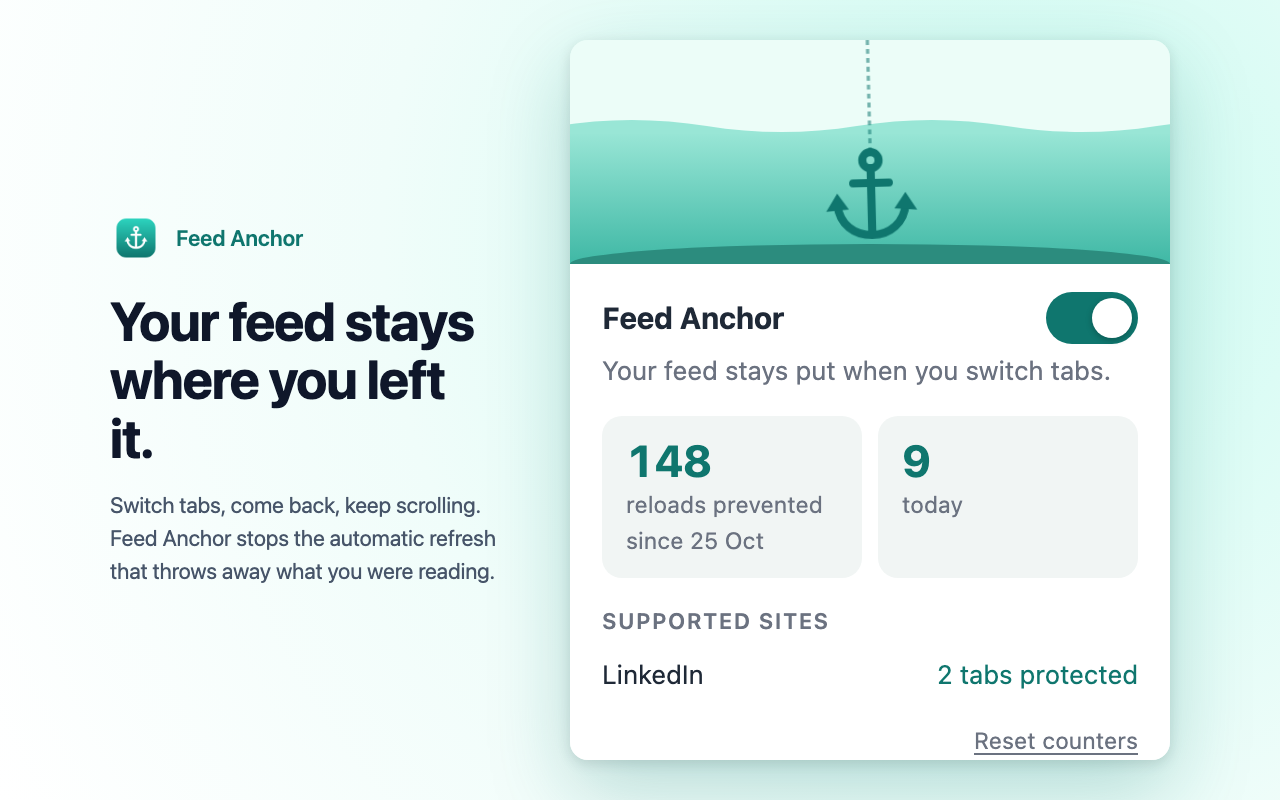
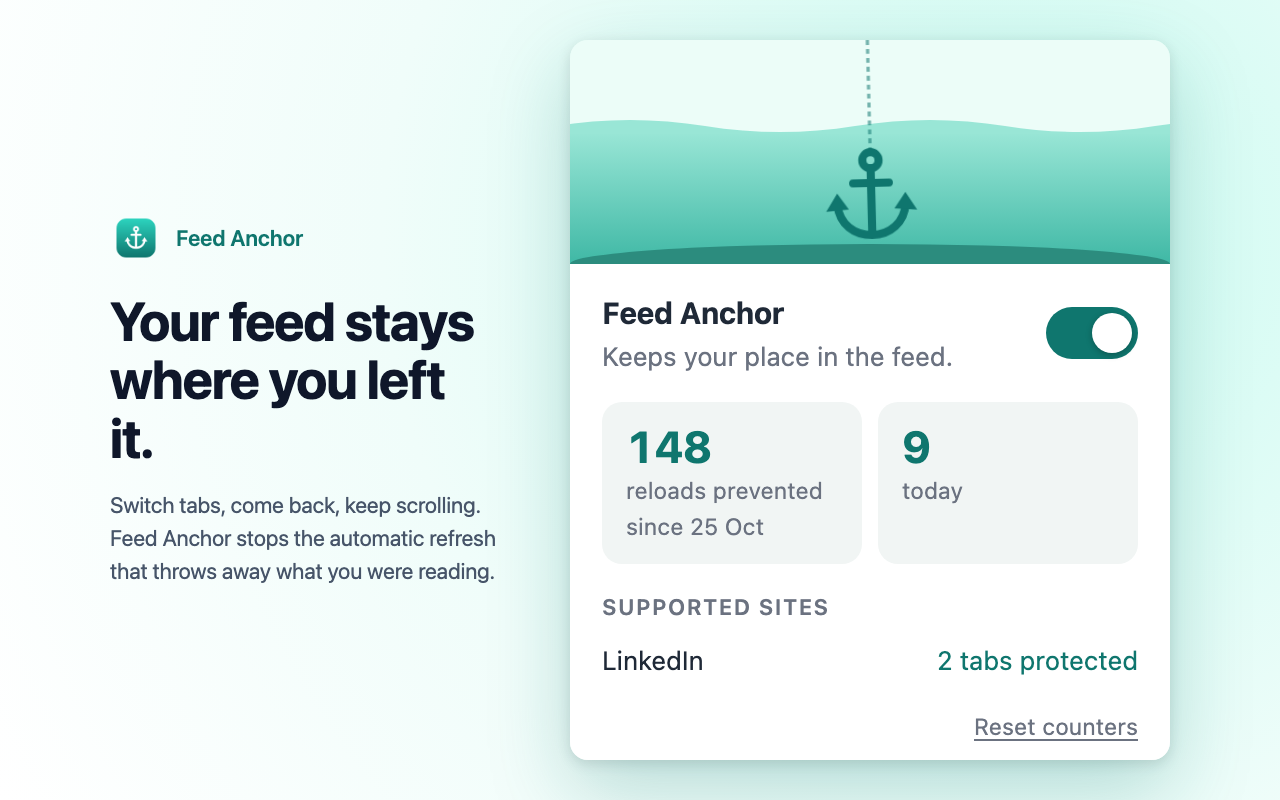
Popup: put status text beside the toggle in one column

diff --git a/src/popup.html b/src/popup.html
@@ -147,9 +147,9 @@
   }
 
   main { padding: 14px 16px 12px; }
-  .head { display: flex; align-items: center; justify-content: space-between; gap: 12px; }
+  .head { display: flex; align-items: center; justify-content: space-between; gap: 12px; margin-bottom: 14px; }
   h1 { font-size: 15px; margin: 0; letter-spacing: -.01em; }
-  #status { color: var(--muted); margin: 4px 0 14px; }
+  #status { color: var(--muted); margin: 2px 0 0; }
 
   /* Toggle switch */
   .switch {
@@ -217,10 +217,12 @@
 
   <main>
     <div class="head">
-      <h1>Feed Anchor</h1>
+      <div>
+        <h1>Feed Anchor</h1>
+        <p id="status">Keeps your place in the feed.</p>
+      </div>
       <button class="switch" id="toggle" role="switch" aria-checked="true" aria-label="Protection on"></button>
     </div>
-    <p id="status">Your feed stays put when you switch tabs.</p>
 
     <div class="stats">
       <div class="card"><b id="returns">0</b><span id="returns-label">reloads prevented</span></div>

diff --git a/src/popup.js b/src/popup.js
@@ -13,8 +13,8 @@ function showState(on) {
   toggle.setAttribute("aria-checked", String(on));
   toggle.setAttribute("aria-label", on ? "Protection on" : "Protection paused");
   $("status").textContent = on
-    ? "Your feed stays put when you switch tabs."
-    : "Paused. Sites can refresh normally.";
+    ? "Keeps your place in the feed."
+    : "Paused. Feeds can refresh.";
 }
 
 // Restart a CSS animation class on an element
